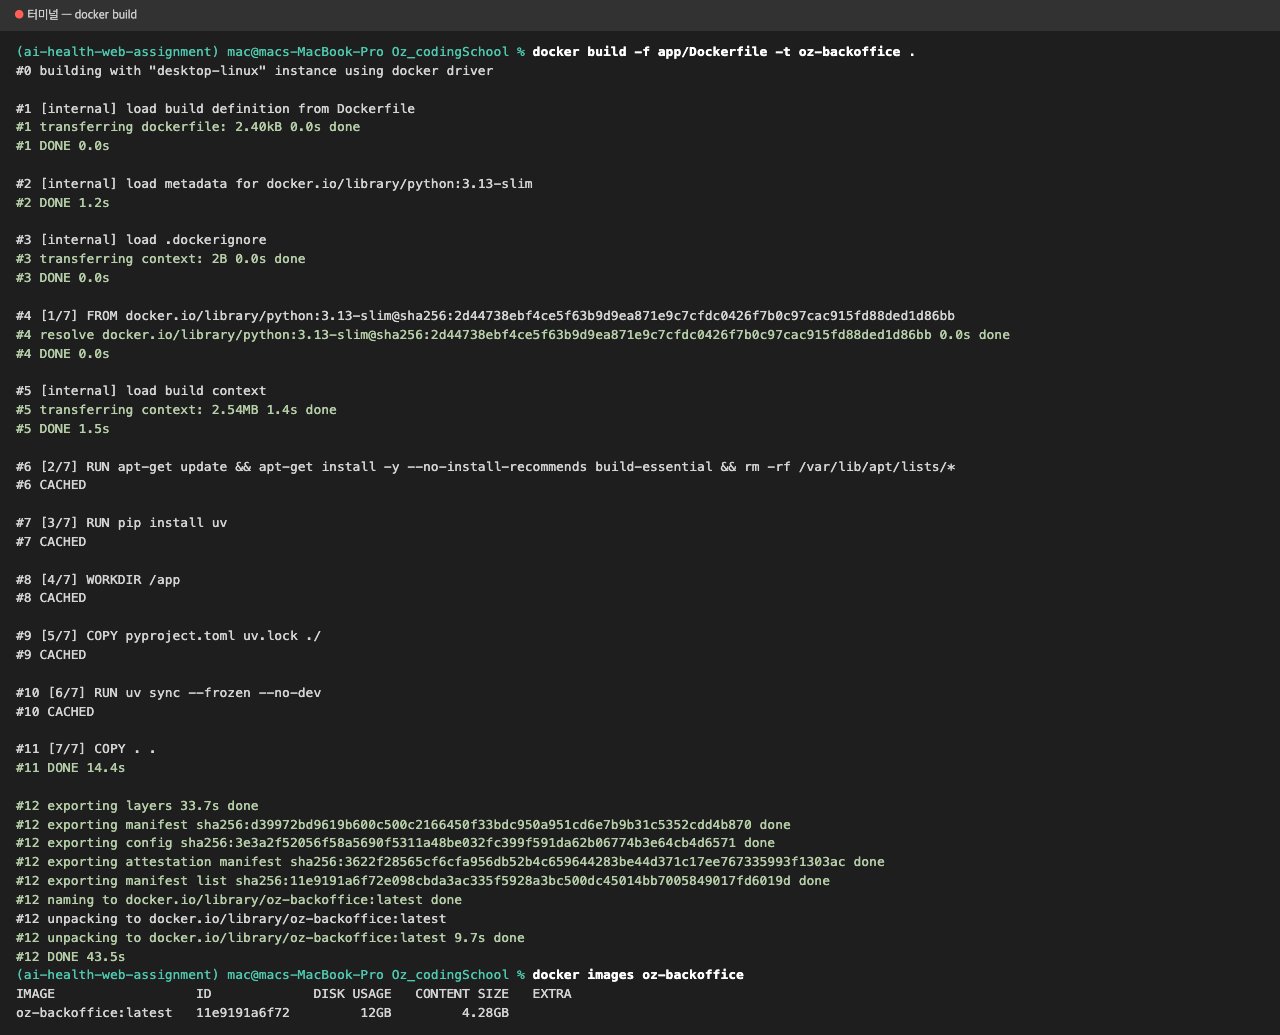
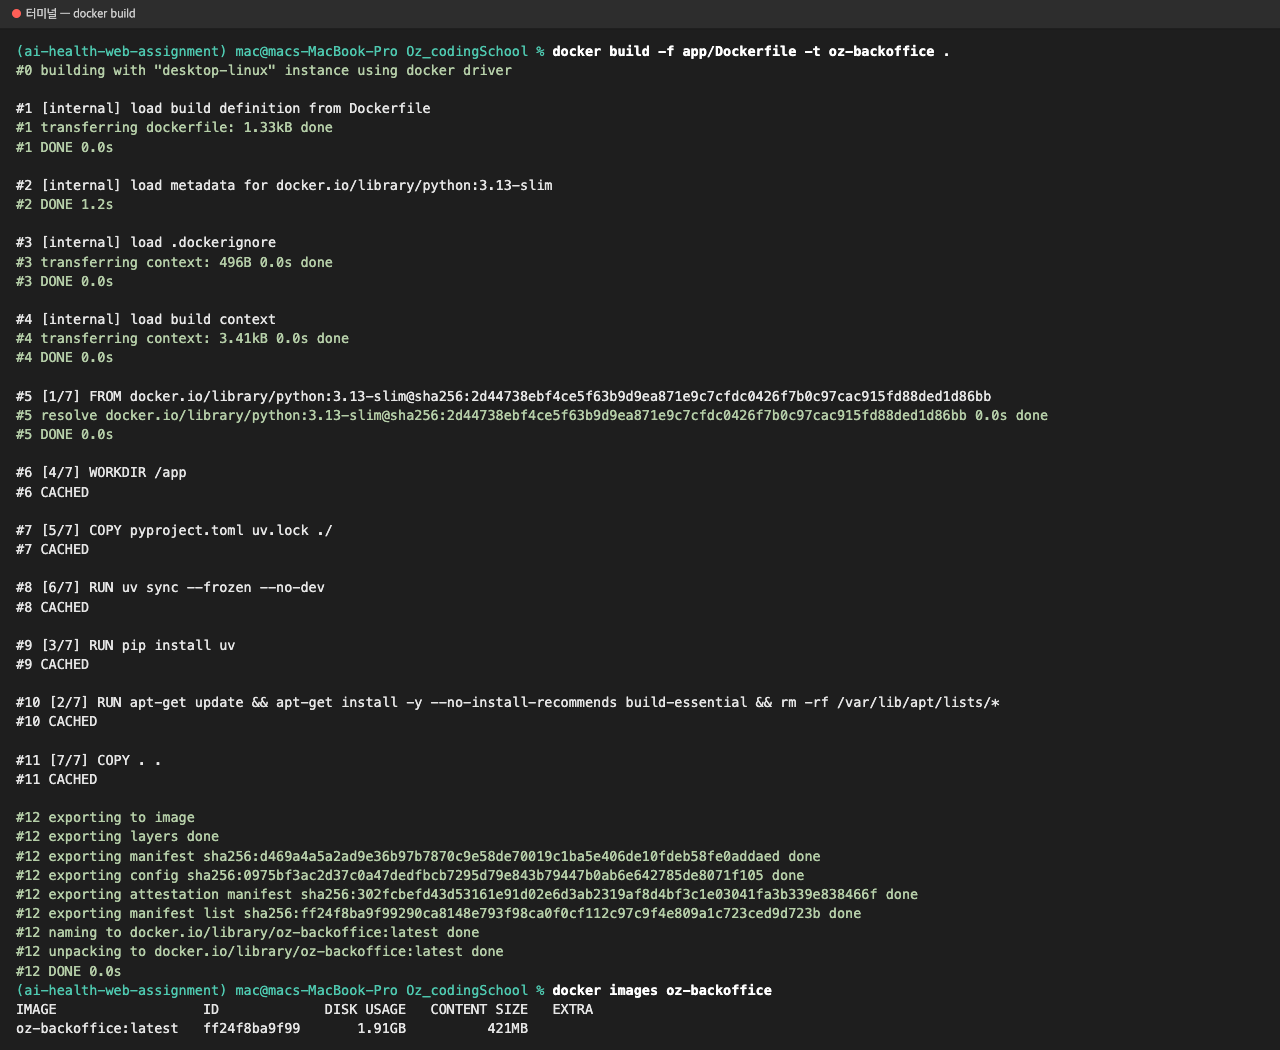
docs: Day08 과제 1 최종 캡처 교체, .dockerignore·compose fastapi 내용 반영

diff --git a/docs/day08_도커_실행화면.md b/docs/day08_도커_실행화면.md
@@ -9,8 +9,8 @@
 |---|---|---|
 | `app/Dockerfile` | 김지연 | #61 |
 | `pyproject.toml`, `uv.lock` (torch CPU 전용) | 김지연 | #62 |
-| `app/.dockerignore` | 박유정 | <!-- TODO --> |
-| `docker-compose.yml` - fastapi 서비스 | 이명석 | <!-- TODO --> |
+| `.dockerignore` (루트) | 박유정 | #64 |
+| `docker-compose.yml` - fastapi 서비스, Dockerfile 실행 명령 | 이명석 | #63 |
 | `docker-compose.yml` - mysql 서비스 + 연결 | 김도엽 | <!-- TODO --> |
 
 ## 🐳 과제 1. Dockerfile + .dockerignore
@@ -26,24 +26,27 @@
 | 5 | `COPY pyproject.toml uv.lock ./` → `RUN uv sync --frozen --no-dev` | 의존성 먼저 설치. 코드만 바뀌면 이 단계는 캐시 사용 |
 | 6 | `COPY . .` | 나머지 코드 복사 |
 | 7 | `EXPOSE 8000` | 8000번 포트 사용 표시 |
-| 8 | `CMD ["uv", "run", "fastapi", "run", "app/main.py", "--host", "0.0.0.0", "--port", "8000"]` | 컨테이너 켤 때 앱 실행. `0.0.0.0`이어야 컨테이너 밖에서 접속 가능 |
+| 8 | `CMD ["uv", "run", "uvicorn", "app.main:app", "--host", "0.0.0.0", "--port", "8000"]` | 컨테이너 켤 때 앱 실행. `0.0.0.0`이어야 컨테이너 밖에서 접속 가능. 처음엔 `fastapi run`(#61), compose와 맞추려고 `uvicorn`으로 바꿈(#63) |
 
 - 빌드 context는 프로젝트 루트(`.`): 앱이 `app/`뿐 아니라 `worker/`(AI 모델), `static/`(프론트)도 사용함
 - `.env`는 이미지에 넣지 않고 실행할 때 `--env-file`로만 전달
 
-### .dockerignore
+### .dockerignore (루트)
 
-<!-- TODO: 유정님 PR 머지 후 제외 목록, 위치(빌드 context 기준) 정리 -->
+- 과제 문구는 `app/.dockerignore`지만, 빌드 context가 루트라서 루트에 둠 (`app/` 안에 두면 읽히지 않음)
 
 | 제외 대상 | 이유 |
 |---|---|
-| `.env` | 비밀 값이 이미지에 들어가지 않게 |
-| 파이썬 캐시 | |
-| 라이브러리 캐시 (mypy 등) | |
-| 도커 관련 설정 파일 | |
-| `docs/` | |
-| `README.md` | |
-| IDE 설정 | |
+| `.env`, `.env.*` (`.env.example`은 남김) | 비밀 값이 이미지에 들어가지 않게 |
+| `.venv`, `__pycache__`, `*.pyc` | 맥 가상환경·캐시가 들어가면 컨테이너 켤 때 재설치됨 |
+| `.mypy_cache`, `.ruff_cache`, `.pytest_cache` | 도구 캐시는 실행에 불필요 |
+| `Dockerfile*`, `.dockerignore`, `docker-compose*.yml` | 도커 설정 파일 |
+| `docs`, `README.md` | 문서 |
+| `.vscode`, `.idea`, `.DS_Store`, `.git`, `.gitignore` | IDE·OS·git 파일 |
+| `tests`, `media` | 테스트 코드, 업로드 파일 (compose에선 볼륨으로 연결) |
+| `*.pt`, `*.pth` | AI 모델 파일 (Drive로 공유, 실행할 때 볼륨으로 연결) |
+
+- 확인: 가짜 `.env`·`.venv`·`.pt`를 넣고 빌드해도 이미지 `/app`에 들어가지 않음
 
 ### 이미지 크기 변화
 
@@ -51,7 +54,7 @@
 |---|---|---|
 | Dockerfile만 (#61) | 12GB / 4.28GB | 리눅스 기본 torch = GPU(CUDA)용, `.venv`·`media` 등도 같이 복사됨 |
 | torch CPU 전용 (#62) | 4.31GB / 1.28GB | `nvidia-*`, `cuda-*`, `triton` 제거 |
-| .dockerignore 추가 | <!-- TODO --> | <!-- TODO --> |
+| .dockerignore 추가 (#64) | 1.91GB / 421MB | 로컬 `.venv`, AI 모델 파일, `.env`, docs 등이 빠짐 |
 
 ### 실행 화면
 
@@ -61,14 +64,16 @@
 docker build -f app/Dockerfile -t oz-backoffice .
 ```
 
-<!-- TODO: .dockerignore 머지 후 최종 캡처로 교체 -->
 ![docker build](images/day08/01_docker_build.png)
 
 실행
 
 ```bash
-docker run --rm -p 8000:8000 --env-file .env oz-backoffice
+docker run --rm -p 8000:8000 --env-file .env -v "$PWD/worker/models:/app/worker/models:ro" oz-backoffice
 ```
+
+- AI 모델 파일은 이미지에서 빠지므로 `-v`로 로컬 `worker/models`를 연결 (없으면 예측 API가 503)
+- 켤 때 `.venv` 재설치 줄이 사라지고, AI 모델 3개 로드 확인
 
 ![docker run](images/day08/02_docker_run.png)
 
@@ -109,4 +114,6 @@ docker compose up --build
 | `uv sync` 중 `asyncmy` 빌드 실패 (`No such file or directory: 'gcc'`) | 리눅스 ARM용 완성 파일이 없어 컴파일 필요, slim 이미지엔 gcc 없음 | `build-essential` 설치 (#61) |
 | 이미지 12GB | 리눅스에선 torch가 GPU(CUDA)용으로 설치됨 | 리눅스에서만 PyTorch CPU 전용 저장소 사용 (#62) |
 | 도커 torch만 2.15.0으로 잡힘 | CPU 저장소에서 최신 버전 선택 | `torch<2.15`, `torchvision<0.30`으로 로컬과 맞춤 (#62) |
-| 컨테이너 켤 때마다 패키지 재설치 | 로컬 `.venv`가 이미지에 복사돼 컨테이너 `.venv`를 덮어씀 | `.dockerignore`로 제외 <!-- TODO --> |
+| 컨테이너 켤 때마다 패키지 재설치 | 로컬 `.venv`가 이미지에 복사돼 컨테이너 `.venv`를 덮어씀 | `.dockerignore`로 제외 (#64), compose에선 `.venv` 전용 볼륨 (#63) |
+| 이미지 안에 `.env`가 들어 있었음 | `.dockerignore`가 없어서 루트 파일이 전부 복사됨 | `.dockerignore`로 제외 후 다시 빌드 (#64). 이미지를 외부에 올린 적은 없음 |
+| `.dockerignore`를 `app/`에 두면 적용 안 됨 | `.dockerignore`는 빌드 context(루트) 기준으로 읽힘 | 루트에 둠 (#64) |

diff --git a/docs/day08_작업내역.md b/docs/day08_작업내역.md
@@ -1,24 +1,24 @@
 # 📝 Day08 작업 내역
 
 - 날짜: 2026-10-30
-- PR: #61 (Dockerfile), #62 (torch CPU 전용) <!-- TODO: .dockerignore, compose, 문서 PR 추가 -->
+- PR: #61 (Dockerfile), #62 (torch CPU 전용), #63 (compose fastapi), #64 (.dockerignore) <!-- TODO: compose mysql, 문서 PR 추가 -->
 - 파일별 담당: Dockerfile·torch CPU 전용·문서 김지연 / .dockerignore 박유정 / compose fastapi 이명석 / compose mysql 김도엽
 
 ## 요약
 
 | 구분 | 개수 | 내용 |
 |---|---|---|
-| 🆕 새로 만든 것 | <!-- TODO --> | `app/Dockerfile`, 캡처 `docs/images/day08/`, 실행 화면 문서 `day08_도커_실행화면.md` <!-- TODO: .dockerignore --> |
-| ✏ 수정한 것 | <!-- TODO --> | `pyproject.toml`, `uv.lock` (torch CPU 전용) <!-- TODO: docker-compose.yml, README --> |
-| 📦 이미지 크기 | 12GB → 4.31GB | torch CPU 전용 <!-- TODO: .dockerignore 후 --> |
+| 🆕 새로 만든 것 | <!-- TODO --> | `app/Dockerfile`, `.dockerignore`, 캡처 `docs/images/day08/`, 실행 화면 문서 `day08_도커_실행화면.md` |
+| ✏ 수정한 것 | <!-- TODO --> | `pyproject.toml`, `uv.lock` (torch CPU 전용), `docker-compose.yml` (fastapi 서비스) <!-- TODO: mysql, README --> |
+| 📦 이미지 크기 | 12GB → 4.31GB → 1.91GB | torch CPU 전용(#62) → .dockerignore(#64) |
 
 | PR | 내용 |
 |---|---|
 | #61 | `app/Dockerfile` 작성 + 과제 1 빌드·실행 캡처, Day07 작업내역 PR 표 담당 열 정리 |
 | #62 | 리눅스(도커)에서 torch CPU 전용 설치로 이미지 크기 축소 |
-<!-- TODO: | #63 | .dockerignore | -->
-<!-- TODO: | #64 | compose fastapi 서비스 | -->
-<!-- TODO: | #65 | compose mysql 서비스 + 연결 | -->
+| #63 | compose fastapi 서비스 + Dockerfile 실행 명령 `uvicorn`으로 (이명석) |
+| #64 | 루트 `.dockerignore` (박유정) |
+<!-- TODO: | #65 | compose mysql 서비스 + 연결 (김도엽) | -->
 
 ## 🆕 새로 만든 것
 
@@ -37,7 +37,14 @@
 - 빌드 성공(`docker build`, `docker images`), 컨테이너 실행 로그(`docker run`, `docker ps`), 컨테이너로 띄운 `/docs`·홈 화면
 - 로그·화면에 `.env` 비밀 값이 없는 것 확인
 
-<!-- TODO: .dockerignore (유정) -->
+### `.dockerignore` (#64, 박유정)
+
+- **왜**: 과제 1. 비밀 값·캐시·문서·로컬 가상환경이 이미지에 들어가지 않게
+- **어떻게**
+  - 빌드 context가 루트라서 `app/`이 아닌 루트에 둠
+  - `.env`(`.env.example`만 남김), `.venv`·파이썬 캐시, 도구 캐시, 도커 설정, docs·README, IDE·git, tests, media, AI 모델 파일(`*.pt`) 제외
+- **결과**: 이미지 4.31GB → 1.91GB, 켤 때 재설치 사라짐. 그동안 이미지 안에 `.env`가 들어 있던 것도 발견해 막음
+- 모델 파일이 빠져서 `docker run`은 `-v worker/models`로 연결해서 실행
 
 ## ✏ 수정한 것
 
@@ -50,7 +57,17 @@
 - **결과**: 이미지 12GB → 4.31GB, 컨테이너 안 torch 2.14.1+cpu, AI 모델 3개 정상 로드, pytest 12개 통과
 - 팀원은 머지 후 `uv sync` 한 번 실행
 
-<!-- TODO: docker-compose.yml (명석·도엽) -->
+### `docker-compose.yml` - fastapi 서비스 (#63, 이명석)
+
+- **왜**: 과제 2. 로컬 코드를 컨테이너에 연결해 수정하면 바로 반영되게
+- **어떻게**
+  - `./app:/app/app`, `./worker`, `./static`, `./media`를 폴더별로 마운트 → `app.main` 경로가 그대로 유지됨
+  - `venv_volume:/app/.venv`로 로컬 `.venv`가 컨테이너 걸 덮어쓰지 않게 막음
+  - `uvicorn ... --reload`, healthcheck는 curl 대신 python (slim 이미지엔 curl 없음)
+  - Dockerfile `CMD`도 `uvicorn app.main:app`으로 맞춤
+- 리뷰 때 `.dockerignore`가 같이 들어와서, 담당대로 유정님 PR로 분리 후 머지
+
+<!-- TODO: compose mysql 서비스 + 연결 (도엽) -->
 
 ## 💡 배운 것
 
@@ -64,8 +81,9 @@
 
 - [x] Dockerfile + 과제 1 캡처 (#61)
 - [x] torch CPU 전용으로 이미지 축소 (#62)
-- [ ] .dockerignore (유정)
-- [ ] compose fastapi 서비스 (명석)
+- [x] .dockerignore (#64 유정)
+- [x] compose fastapi 서비스 (#63 명석)
 - [ ] compose mysql 서비스 + 연결 (도엽)
-- [ ] 과제 1 최종 캡처 교체 + 과제 2 캡처
+- [x] 과제 1 최종 캡처 교체
+- [ ] 과제 2 캡처
 - [ ] AI 결과 참고용 표시 (기준값 논의)
